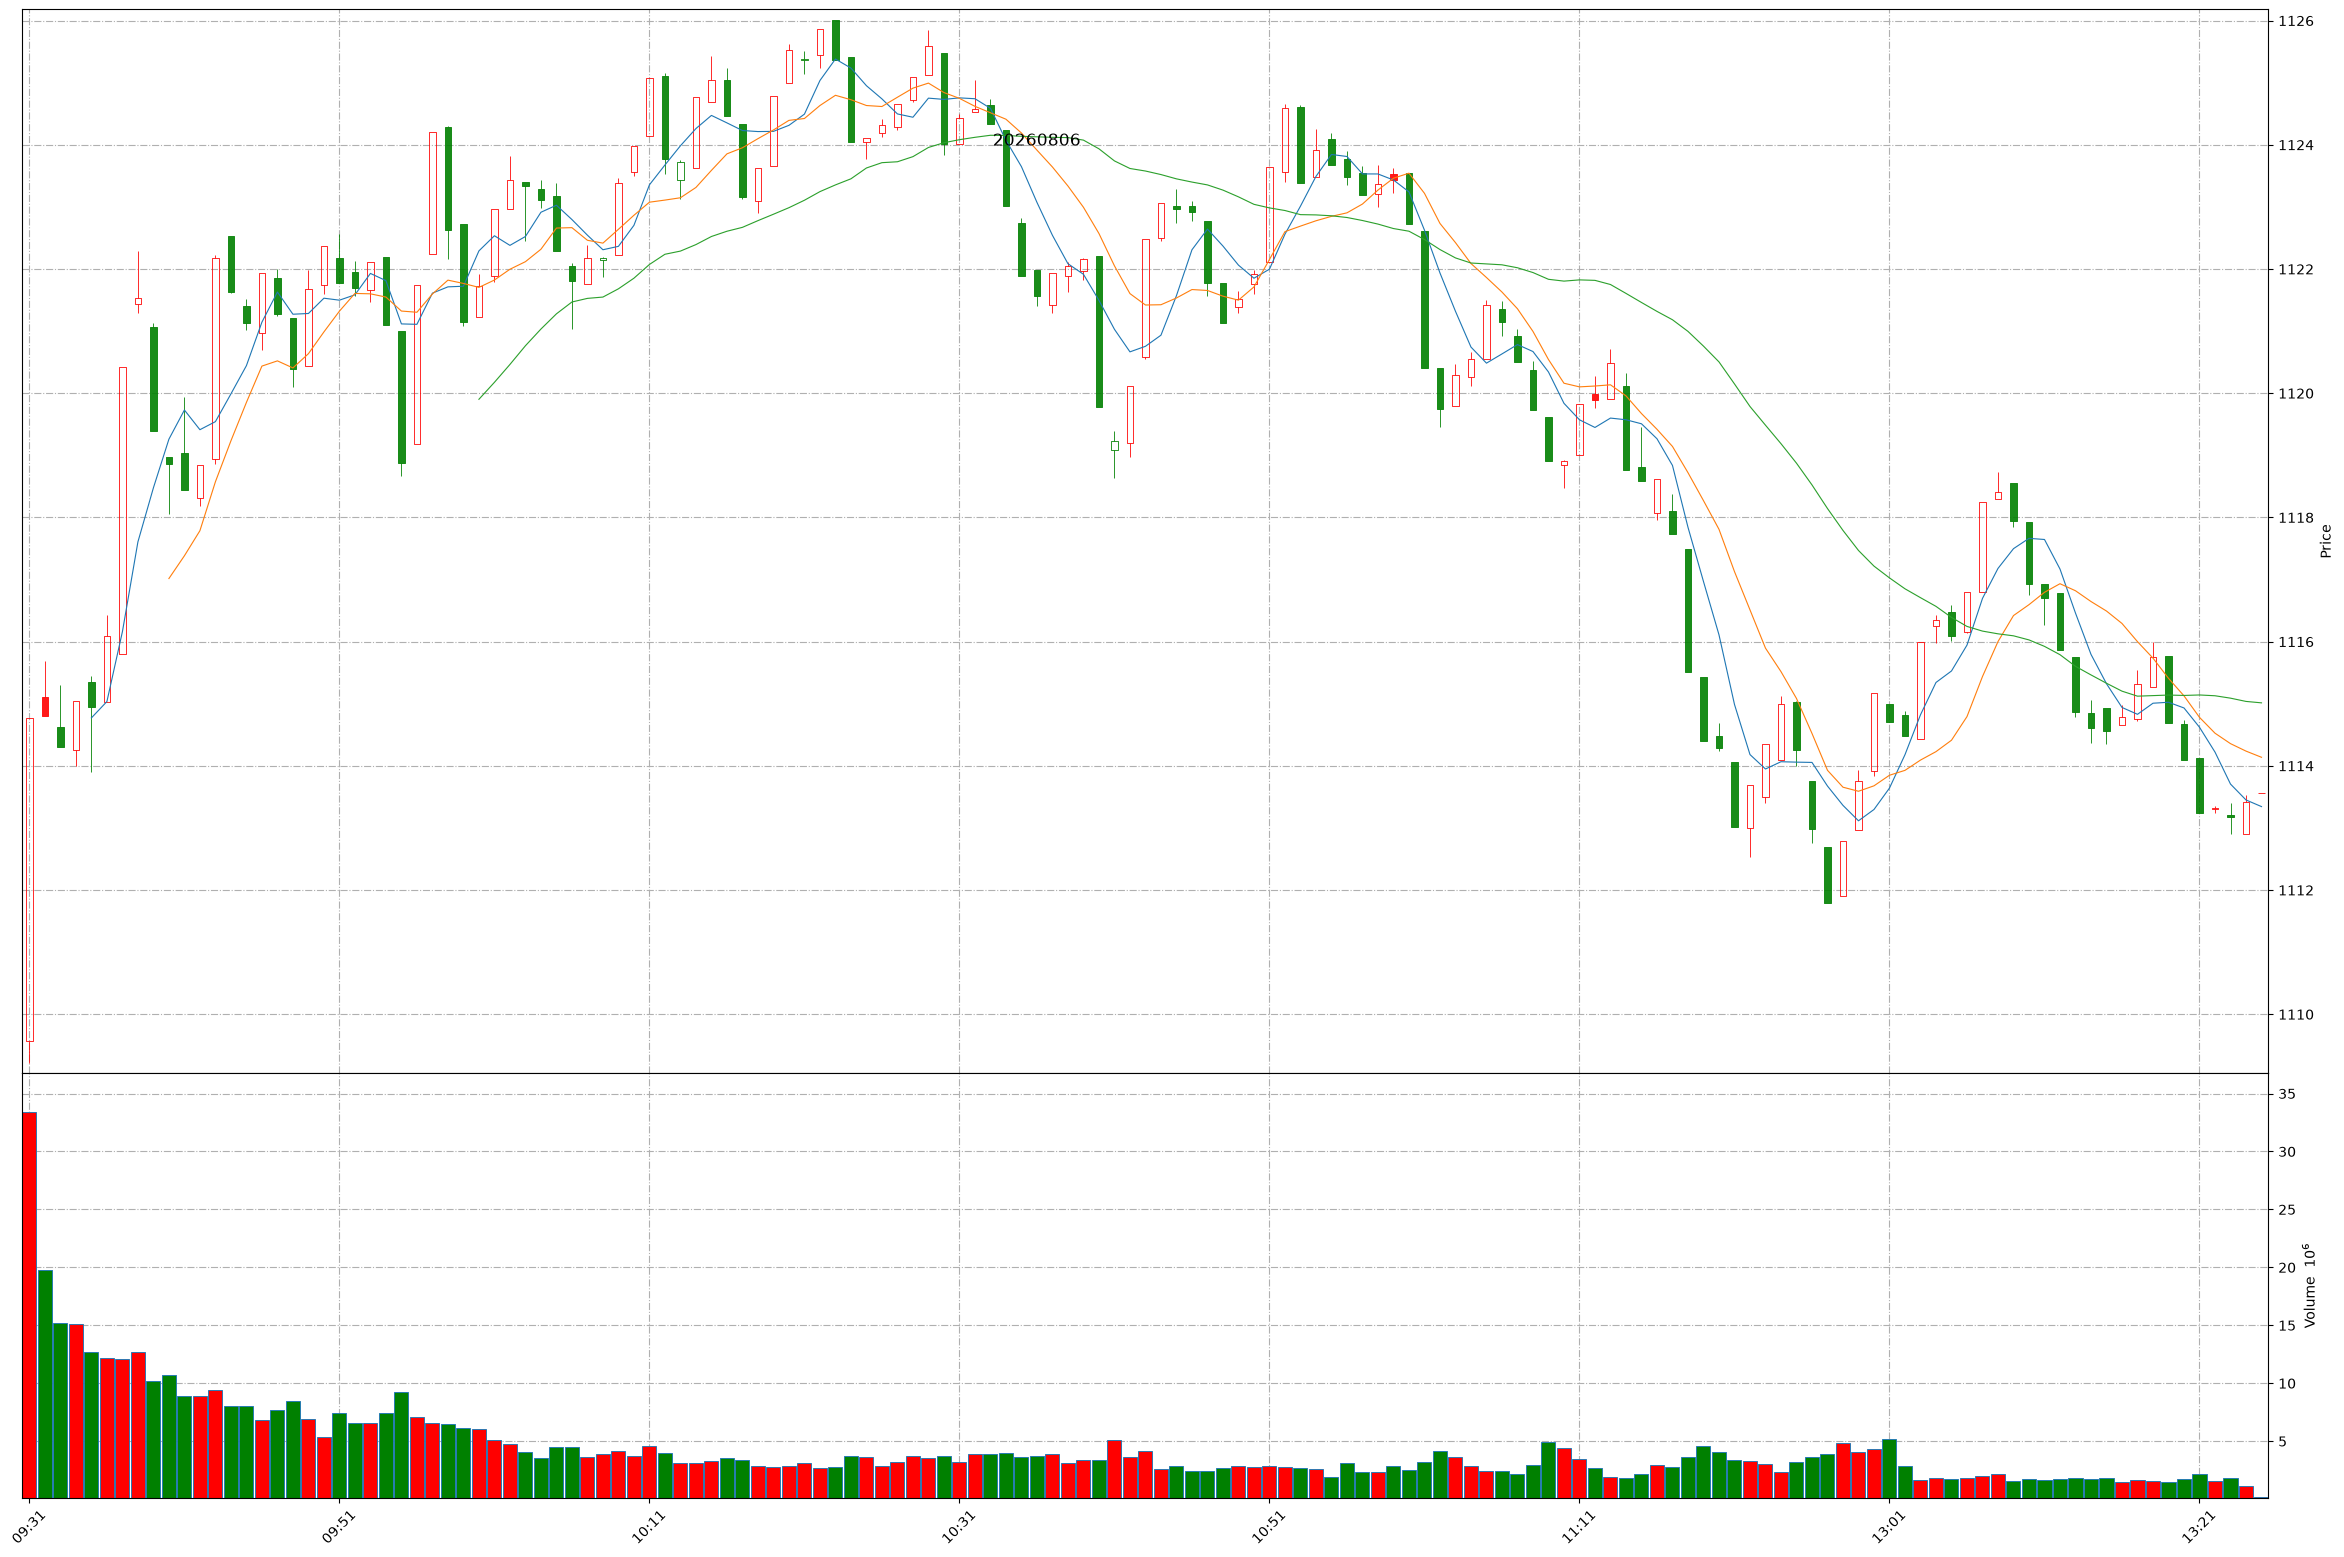
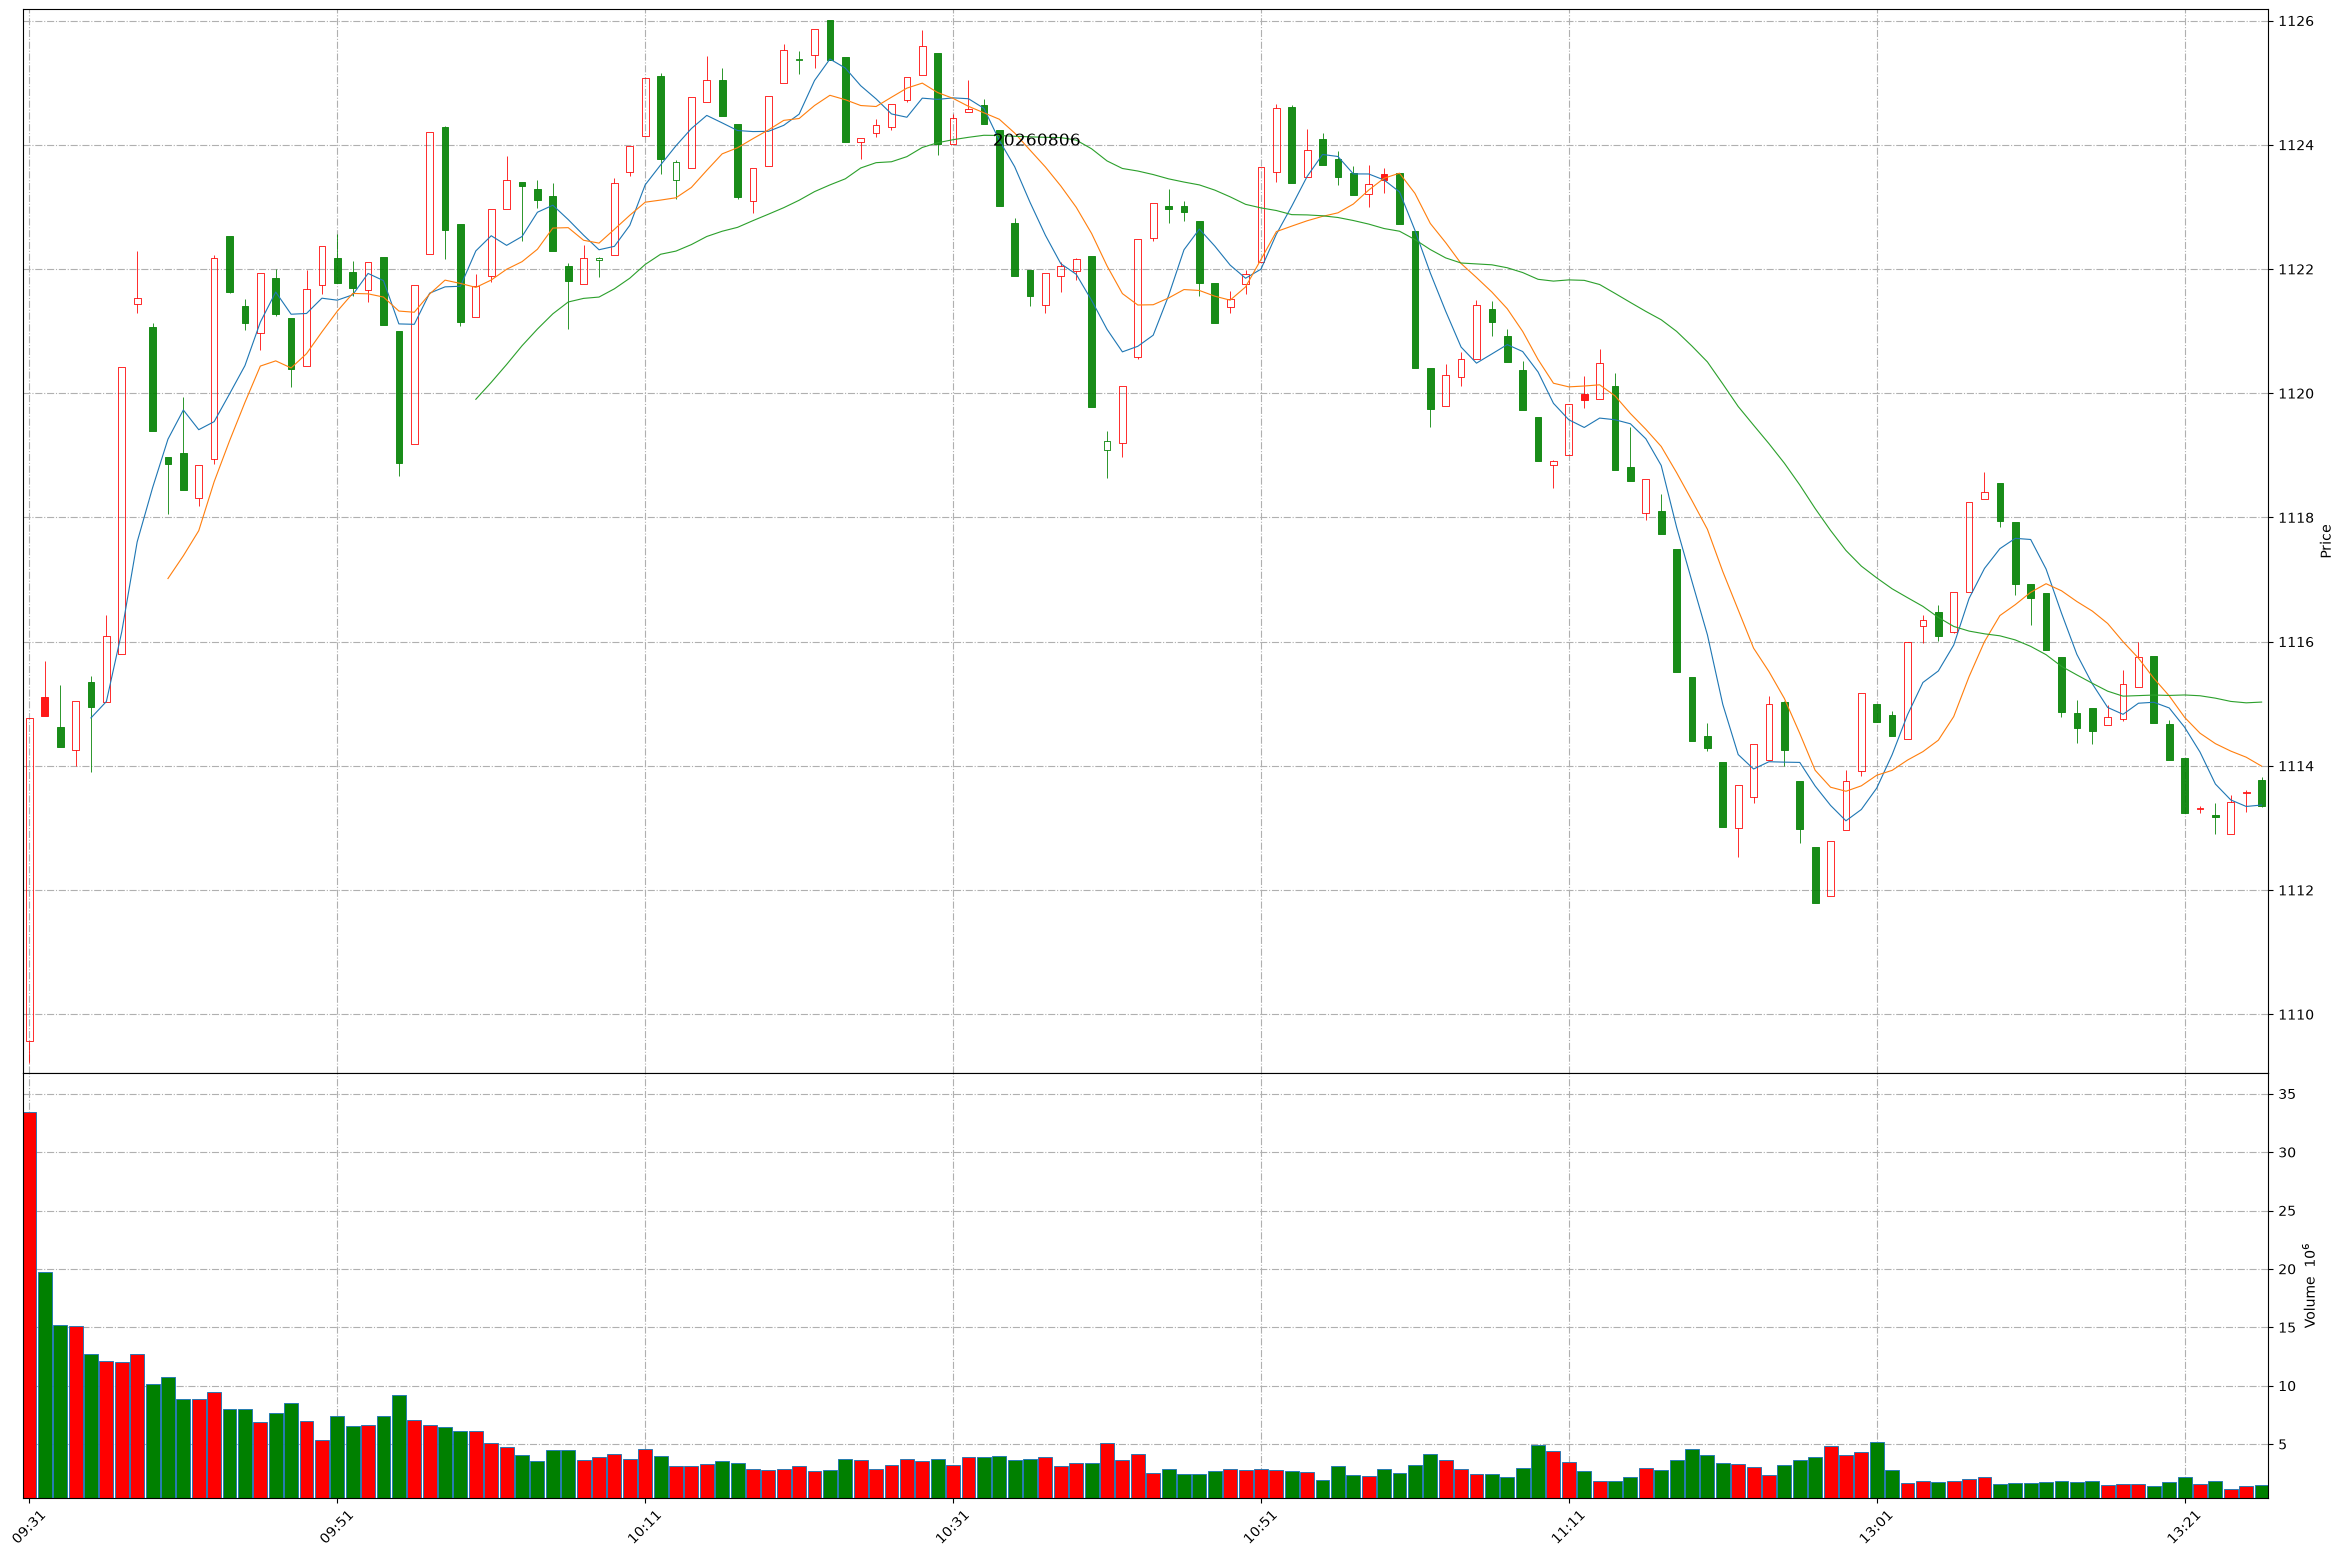
Github action update at 2026-08-06 13:26:03.

diff --git a/README.md b/README.md
@@ -1,11 +1,11 @@
 
 # Daily-A-share-market-quotes 每日 A 股指数（5min 更新）- 20260806
 
-### 上证指数 20260806 13:24
+### 上证指数 20260806 13:26
 ![](./fig/2026/8/20260806-sh000001.png)
 
-### 深证成指 20260806 13:24
+### 深证成指 20260806 13:26
 ![](./fig/2026/8/20260806-sz399001.png)
 
-### 北证50 20260806 13:24
+### 北证50 20260806 13:26
 ![](./fig/2026/8/20260806-bj899050.png)
